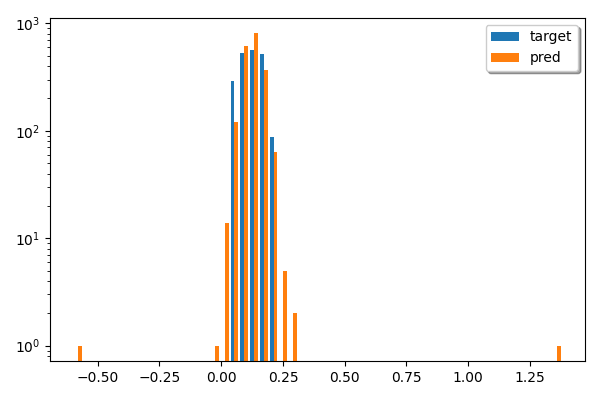
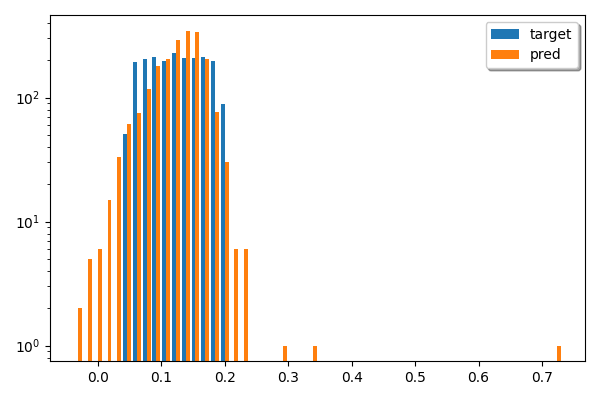
Added gaussian regularisation as a loss option

diff --git a/unsupervised/learning/ginfominmax_regularised.py b/unsupervised/learning/ginfominmax_regularised.py
@@ -1,0 +1,71 @@
+import torch
+from torch.nn import Sequential, Linear, ReLU
+
+
+class GaussianGInfoMinMax(torch.nn.Module):
+	def __init__(self, encoder, proj_hidden_dim=300):
+		super(GaussianGInfoMinMax, self).__init__()
+
+		self.encoder = encoder
+		proj_hidden_dim = self.encoder.emb_dim
+		self.input_proj_dim = self.encoder.out_graph_dim
+
+		self.proj_head = Sequential(
+			Linear(self.input_proj_dim, proj_hidden_dim), ReLU(inplace=True),
+			Linear(proj_hidden_dim, proj_hidden_dim)
+		)
+
+		self.init_emb()
+
+	def init_emb(self):
+		for m in self.modules():
+			if isinstance(m, Linear):
+				torch.nn.init.xavier_uniform_(m.weight.data)
+				if m.bias is not None:
+					m.bias.data.fill_(0.0)
+
+	def forward(self, batch, x, edge_index, edge_attr, edge_weight=None):
+		z, node_emb = self.encoder(batch, x, edge_index, edge_attr, edge_weight)
+		z = self.proj_head(z)
+		# z shape -> Batch x proj_hidden_dim
+		return z, node_emb
+
+	@staticmethod
+	def calc_loss(x, x_aug, temperature=0.2, sym=True, reg_strength=1.0):
+		# x and x_aug shape -> Batch x proj_hidden_dim
+
+		batch_size, _ = x.size()
+		x_abs = x.norm(dim=1)
+		x_aug_abs = x_aug.norm(dim=1)
+
+		sim_matrix = torch.einsum('ik,jk->ij', x, x_aug) / torch.einsum('i,j->ij', x_abs, x_aug_abs)
+		sim_matrix = torch.exp(sim_matrix / temperature)
+		pos_sim = sim_matrix[range(batch_size), range(batch_size)]
+		if sym:
+			loss_0 = pos_sim / (sim_matrix.sum(dim=0) - pos_sim)
+			loss_1 = pos_sim / (sim_matrix.sum(dim=1) - pos_sim)
+
+			loss_0 = -torch.log(loss_0).mean()
+			loss_1 = -torch.log(loss_1).mean()
+			loss = (loss_0 + loss_1) / 2.0
+		else:
+			loss_1 = pos_sim / (sim_matrix.sum(dim=1) - pos_sim)
+			loss_1 = -torch.log(loss_1).mean()
+			return loss_1
+		x_reg_loss = GaussianGInfoMinMax.gaussian_regularization(x)
+		x_aug_reg_loss = GaussianGInfoMinMax.gaussian_regularization(x_aug)
+		return loss + reg_strength * (x_reg_loss + x_aug_reg_loss)
+
+	@staticmethod
+	def gaussian_regularization(embeddings):
+		"""
+		Apply Gaussian regularization to the embeddings.
+		Penalizes deviations of mean from 0 and variance from 1.
+		"""
+		mean = torch.mean(embeddings, dim=0)
+		var = torch.var(embeddings, dim=0)
+
+		mean_loss = torch.sum((mean - 0) ** 2)  # Penalize mean deviation from 0
+		var_loss = torch.sum((var - 1) ** 2)    # Penalize variance deviation from 1
+
+		return mean_loss + var_loss

diff --git a/train.py b/train.py
@@ -27,7 +27,7 @@ from tqdm import tqdm
 from datasets.loaders import get_train_loader, get_val_loaders, get_test_loaders
 from unsupervised.embedding_evaluation import GeneralEmbeddingEvaluation
 from unsupervised.encoder import Encoder
-from unsupervised.learning import GInfoMinMax
+from unsupervised.learning import GInfoMinMax, GaussianGInfoMinMax
 from unsupervised.utils import initialize_edge_weight
 from unsupervised.view_learner import ViewLearner
 from utils import setup_wandb
@@ -332,10 +332,15 @@ def run(args):
 
     val_loaders, names = get_val_loaders(args.batch_size, my_transforms)
     test_loaders, names = get_test_loaders(args.batch_size, my_transforms)
-
-    # View learner and encoder use the same basic architecture
-    model = GInfoMinMax(Encoder(emb_dim=args.emb_dim, num_gc_layers=args.num_gc_layers, drop_ratio=args.drop_ratio, pooling_type=args.pooling_type, convolution=args.backbone),
+    if args.gaussian_regularisation:
+        print("Using AD-GCL with Gaussian Regularisation")
+        model = GaussianGInfoMinMax(Encoder(emb_dim=args.emb_dim, num_gc_layers=args.num_gc_layers, drop_ratio=args.drop_ratio, pooling_type=args.pooling_type, convolution=args.backbone),
                         proj_hidden_dim=args.proj_dim).to(device)
+    else:
+        print("Using AD-GCL without Gaussian Regularisation")
+        # View learner and encoder use the same basic architecture
+        model = GInfoMinMax(Encoder(emb_dim=args.emb_dim, num_gc_layers=args.num_gc_layers, drop_ratio=args.drop_ratio, pooling_type=args.pooling_type, convolution=args.backbone),
+                            proj_hidden_dim=args.proj_dim).to(device)
     model_optimizer = torch.optim.Adam(model.parameters(), lr=args.model_lr)
 
     summarize_model(model)
@@ -488,6 +493,12 @@ def arg_parse():
 
     parser.add_argument(
         '--backbone', type = str, default='gin', help = 'Model backbone to use (gin, gcn, gat)'
+    )
+
+    parser.add_argument(
+        '--gaussian-regularisation',
+        action='store_true',
+        help='Whether to use gaussian regularisation during pre-training',
     )
 
     parser.add_argument(

diff --git a/unsupervised/learning/__init__.py b/unsupervised/learning/__init__.py
@@ -1,3 +1,4 @@
 from .ginfomax import InfoGraph
 from .ginfominmax import GInfoMinMax
 from .gsimclr import GSimCLR
+from .ginfominmax_regularised import GaussianGInfoMinMax
